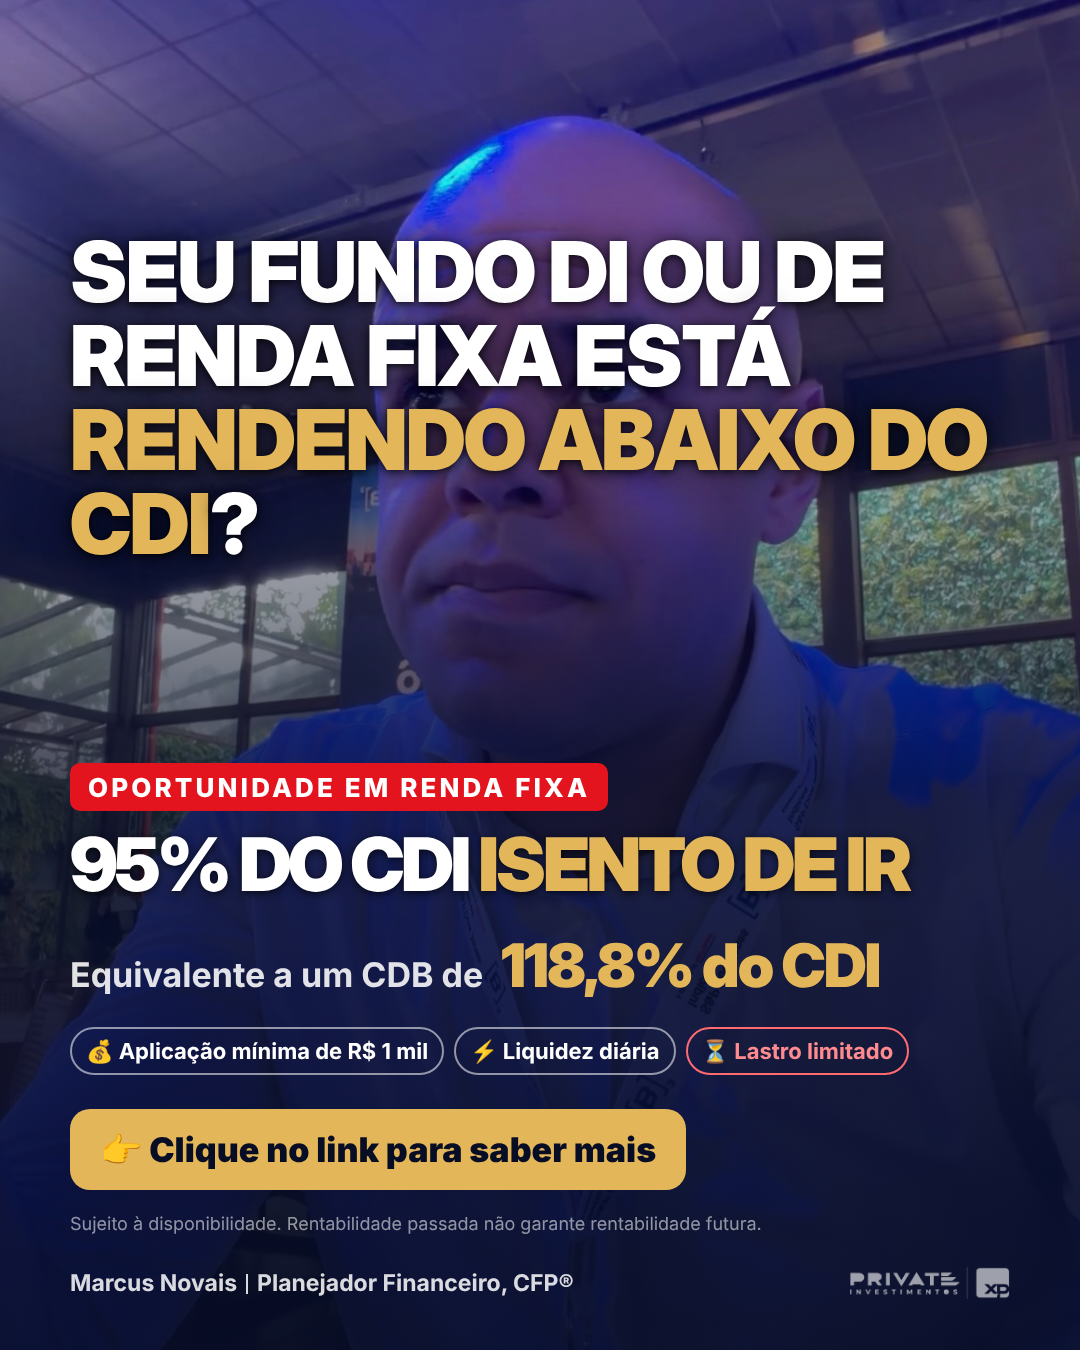
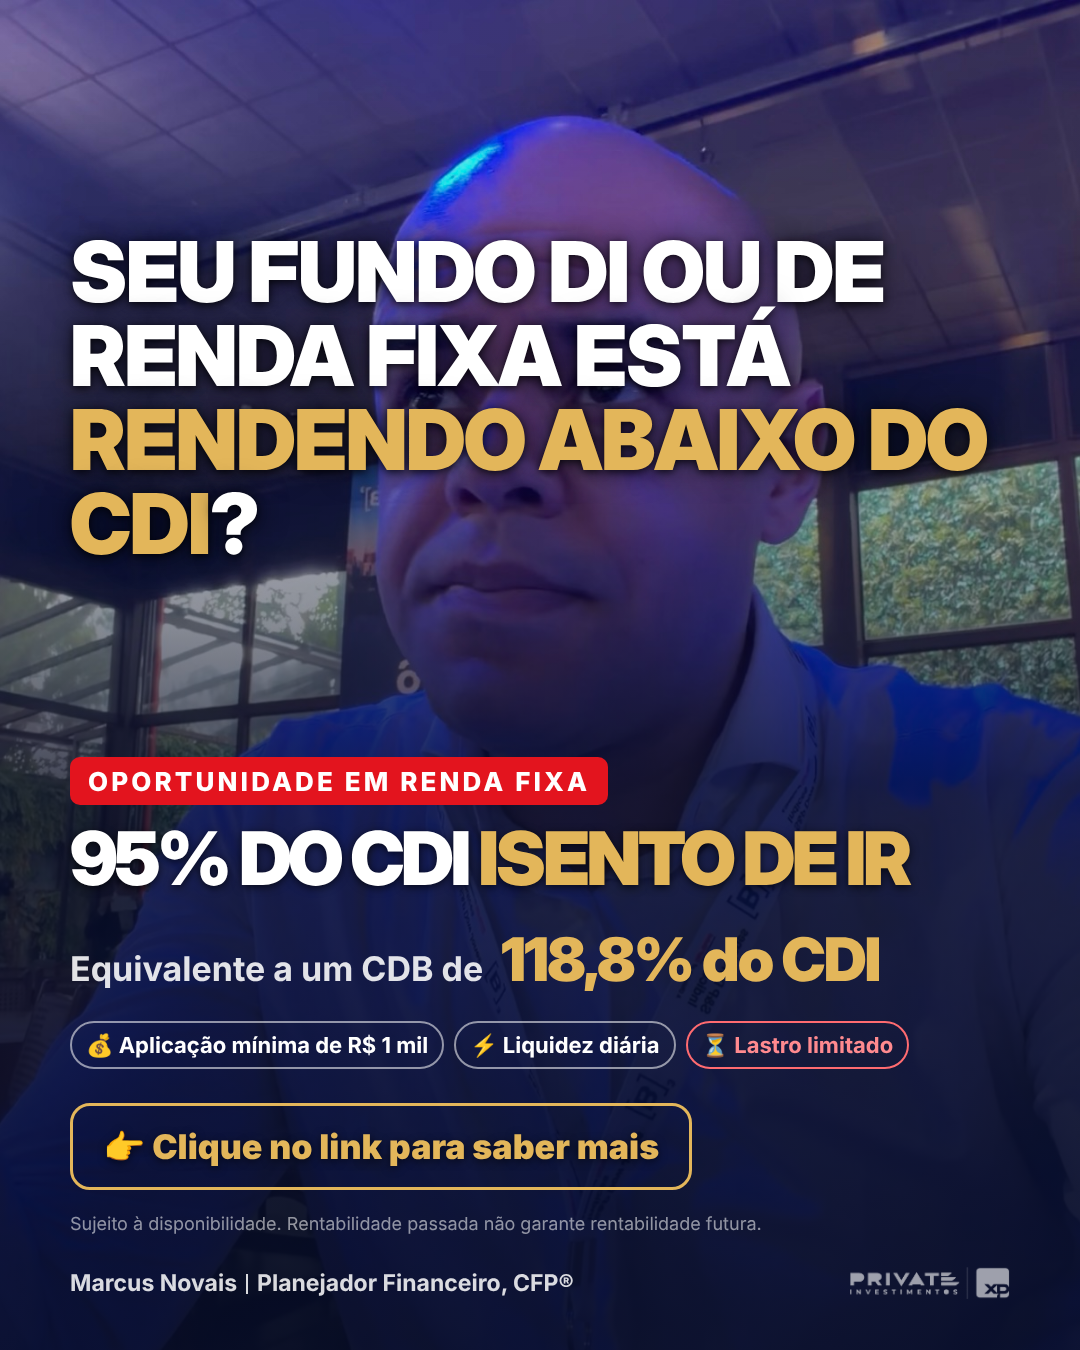
Post 95% CDI isento: botão sem fundo e versão sem chamada para o link
Claude-Session: https://claude.ai/code/session_01JkBXj6tz5hpSkGAznkwYEm

Changed region(s): [[0.0611, 0.56, 0.8556, 0.9022]]

diff --git a/post-isento-95cdi/post.html b/post-isento-95cdi/post.html
@@ -21,7 +21,7 @@
   .chips { display:flex; gap:10px; margin-top:30px; flex-wrap:nowrap; }
   .chips span { white-space:nowrap; border:2px solid rgba(255,255,255,.55); border-radius:40px; padding:9px 14px; font-size:22px; font-weight:700; }
   .chips span.r { border-color:#ff6b70; color:#ff8a8f; }
-  .btn { display:inline-block; margin-top:34px; background:#e3b65a; color:#070d24; font-weight:900; font-size:34px; padding:20px 30px; border-radius:20px; }
+  .btn { display:inline-block; margin-top:34px; background:none; border:3px solid #e3b65a; color:#e3b65a; text-shadow:0 2px 8px rgba(0,0,0,.6); font-weight:900; font-size:34px; padding:20px 30px; border-radius:20px; }
   .fine { font-size:18px; line-height:1.3; color:rgba(255,255,255,.55); margin-top:22px; }
   .foot { position:absolute; left:70px; right:70px; display:flex; justify-content:space-between; align-items:center; font-size:23px; font-weight:700; color:rgba(255,255,255,.85); }
   .foot span { display:inline-block; width:2px; height:20px; background:rgba(255,255,255,.85); margin:0 9px -3px; }
@@ -31,16 +31,16 @@
 </style></head>
 <body>
 <script>
-const body=(top,bot,foot)=>`<div class="bg"><img src="marcus.jpg"></div><div class="sh"></div>
+const body=(top,bot,foot,cta)=>`<div class="bg"><img src="marcus.jpg"></div><div class="sh"></div>
  <div class="top" style="top:${top}px"><div class="hook">Seu fundo DI ou de renda fixa está <em>rendendo abaixo do CDI</em>?</div></div>
  <div class="bot" style="bottom:${bot}px"><div class="pill">Oportunidade em renda fixa</div>
   <h1>95% do CDI <em>isento de IR</em></h1>
   <div class="eq"><div class="t">Equivalente a um CDB de</div><div class="v">118,8% do CDI</div></div>
   <div class="chips"><span>💰 Aplicação mínima de R$ 1 mil</span><span>⚡ Liquidez diária</span><span class="r">⏳ Lastro limitado</span></div>
-  <div class="btn">👉 Clique no link para saber mais</div>
+  ${cta?'<div class="btn">👉 Clique no link para saber mais</div>':''}
   <div class="fine">Sujeito à disponibilidade. Rentabilidade passada não garante rentabilidade futura.</div></div>
  <div class="foot" style="bottom:${foot}px"><div>Marcus Novais<span></span>Planejador Financeiro, CFP®</div><img src="logo-private-xp.png"></div>`;
-for (const [cls,top,bot,foot] of [['p',230,115,50],['p st',340,330,250]]) { const s=document.createElement('section'); s.className=cls; s.innerHTML=body(top,bot,foot); document.body.appendChild(s); }
+for (const [cls,top,bot,foot,cta] of [['p',230,115,50,1],['p st',340,330,250,1],['p',300,115,50,0],['p st',420,330,250,0]]) { const s=document.createElement('section'); s.className=cls; s.innerHTML=body(top,bot,foot,cta); document.body.appendChild(s); }
 const all=[...document.querySelectorAll('.p')];
 window.show=i=>{document.body.classList.add('single');all.forEach((s,j)=>s.classList.toggle('on',j===i));};
 </script>
